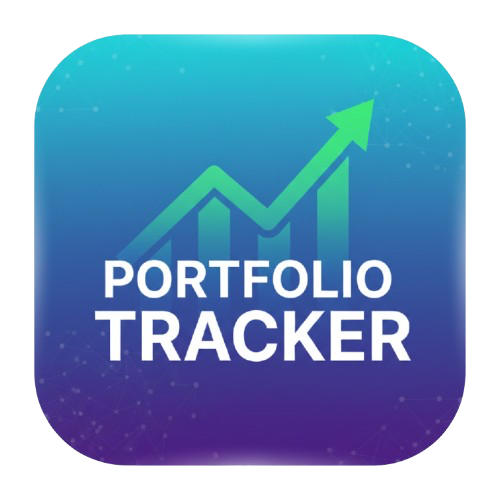
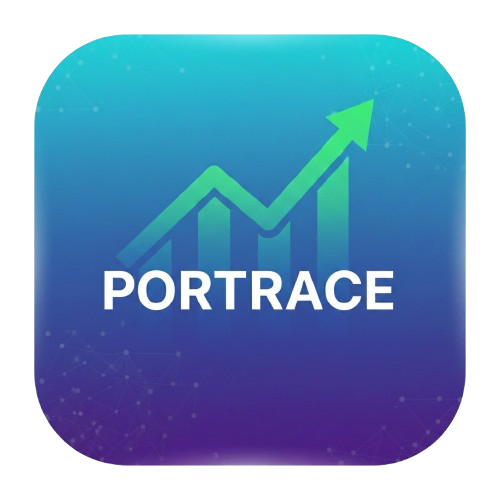
UI and Backend updated for production

Changed region(s): [[0.18, 0.51, 0.84, 0.72]]

diff --git a/PelosiUI/services/ApiService.js b/PelosiUI/services/ApiService.js
@@ -18,6 +18,7 @@ export default class ApiService {
     
     const headers = {
       'Content-Type': 'application/json',
+      'Accept': 'application/json',
     };
 
     if (this.token) {
@@ -35,7 +36,18 @@ export default class ApiService {
 
     try {
       const response = await fetch(urlWithPassword, config);
-      const data = await response.json();
+      const contentType = response.headers.get('content-type') || '';
+
+      let data;
+      if (contentType.includes('application/json')) {
+        data = await response.json();
+      } else {
+        const text = await response.text();
+        if (!response.ok) {
+          throw new Error(`HTTP ${response.status} ${response.statusText}: ${text}`);
+        }
+        throw new Error(`Unexpected content-type: ${contentType}. Body: ${text}`);
+      }
 
       if (!response.ok) {
         throw new Error(data.detail || data.message || 'Request failed');

diff --git a/PelosiUI/navigation/AppNavigator.js b/PelosiUI/navigation/AppNavigator.js
@@ -19,7 +19,7 @@ export default function AppNavigator() {
         name="Home"
         component={HomeScreen}
         options={({ navigation }) => ({
-          title: 'Pellosi App',
+          title: 'Portrace',
           headerRight: () => (
             <TouchableOpacity
               style={{ marginRight: 10 }}

diff --git a/PelosiUI/config/Config.js b/PelosiUI/config/Config.js
@@ -1,6 +1,6 @@
 // API Configuration
 export const API_CONFIG = {
-  //BASE_URL: 'https://muratsahindev.com/api',
-  BASE_URL: 'http://192.168.1.20:8000',
+  BASE_URL: 'https://muratsahindev.com/api',
+  //BASE_URL: 'http://192.168.1.20:8000',
   API_PASSWORD: 'secret_key',
 };

diff --git a/PelosiBE/services/stocks.py b/PelosiBE/services/stocks.py
@@ -1,4 +1,5 @@
 from datetime import datetime
+import json
 import os
 import requests
 import yfinance as yf
